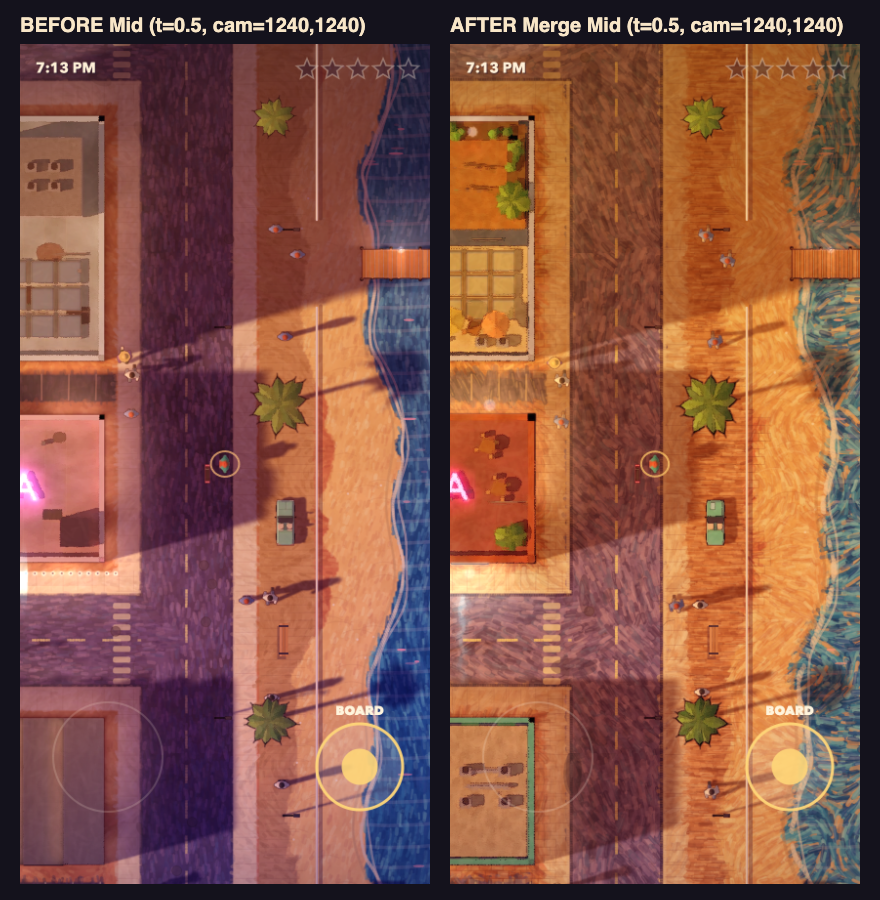
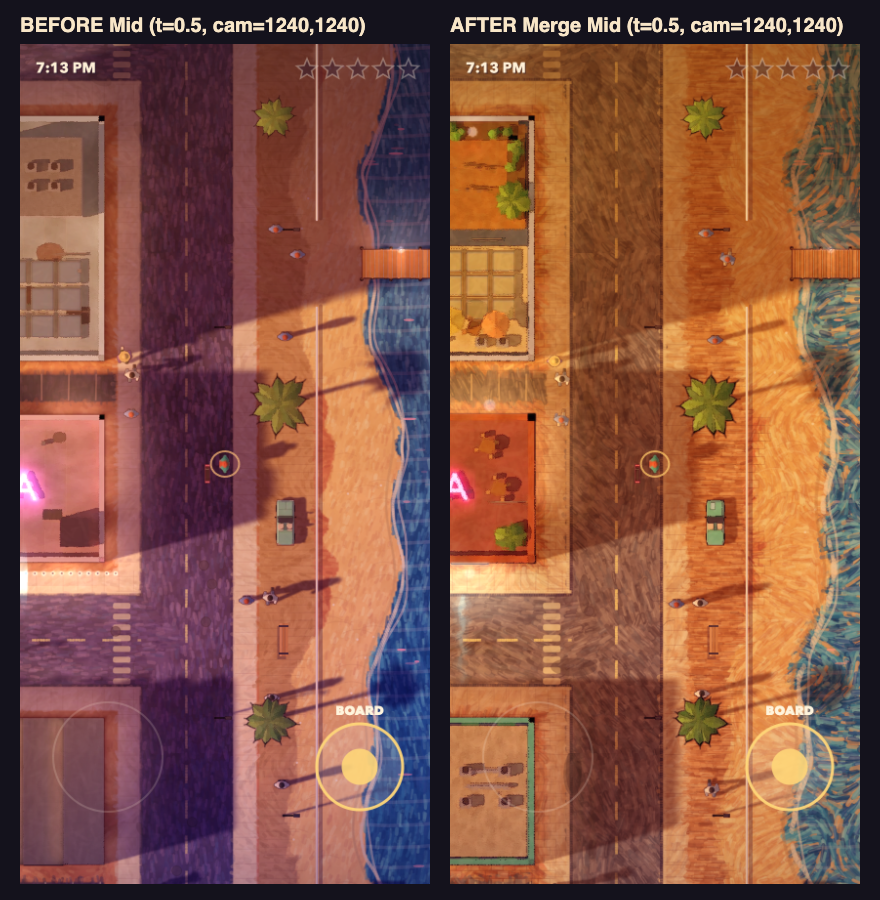
palm-city: remove golden-hour lavender road cast at intersections

diff --git a/games/palm-city/src/ground.js b/games/palm-city/src/ground.js
@@ -14,11 +14,11 @@ const CPX = CHUNK * PX_PER_UNIT; // 512
 
 // Daylight albedo per surface (the time-of-day grade is applied later, in the lighting pass).
 const PAL = {
-  road:      { base: [80, 72, 112],   var: [20, 18, 28], dabs: ['#605692', '#7466a8', '#4c447c', '#8e7cb8', '#5864a0', '#a286b6', '#423a70', '#b294c4'] },
+  road:      { base: [82, 76, 86],    var: [18, 16, 18], dabs: ['#666074', '#756e80', '#544f62', '#847888', '#5e627a', '#90828c', '#464156', '#988b96'] },
   sidewalk:  { base: [242, 214, 178], var: [16, 14, 12], dabs: ['#fae4be', '#dfbe9c', '#fff0d2', '#cfa88c', '#f4d3a6', '#e8b68c'] },
   paving:    { base: [212, 118, 76],  var: [26, 18, 16], dabs: ['#e68854', '#b85a42', '#f2a46a', '#9c4c3a', '#de7458', '#f8b976', '#8a3e30'] },
   plaza:     { base: [236, 190, 138], var: [18, 14, 14], dabs: ['#fad090', '#dea274', '#f2b880', '#ce8670', '#ffe0a4', '#e89668'] },
-  parking:   { base: [60, 56, 86],    var: [12, 10, 16], dabs: ['#4a466e', '#3c385a', '#625a88', '#302d4c', '#74689c'] },
+  parking:   { base: [62, 58, 66],    var: [12, 10, 12], dabs: ['#524e5a', '#44404c', '#66606c', '#36333e', '#746e78'] },
   grass:     { base: [64, 134, 58],   var: [28, 32, 22], dabs: ['#48a03c', '#8cc846', '#2e7c44', '#b2d44c', '#266644', '#d0dc58', '#56ac36', '#72ba44'] },
   promenade: { base: [208, 138, 92],  var: [20, 16, 14], dabs: ['#d48858', '#b86c48', '#e6a06c', '#9c583c', '#f0b47c', '#c87c4e'] },
   sand:      { base: [246, 198, 126], var: [16, 15, 14], dabs: ['#ffda92', '#ecb06a', '#fff0b4', '#dc9864', '#f8c67e', '#e49e60'] },
@@ -186,7 +186,7 @@ export class GroundPainter {
           g.quadraticCurveTo(px - sys * bend, py + cxs * bend, px + cxs, py + sys);
           g.stroke();
           if (pass === 1 && r4 > 0.74) {
-            g.strokeStyle = t === 'water' ? '#bfefff' : (t === 'road' ? '#a6a8de' : '#fff3ce');
+            g.strokeStyle = t === 'water' ? '#bfefff' : (t === 'road' ? '#cfc6d0' : '#fff3ce');
             g.globalAlpha = 0.26;
             g.lineWidth = Math.max(1.4, wid * 0.35);
             g.beginPath();
@@ -379,11 +379,11 @@ export class GroundPainter {
       if (r.d > hr - 3) continue;
       const isGutter = r.d > hr - 24;
       g.globalAlpha = isGutter ? 0.36 : 0.20;
-      g.fillStyle = isGutter ? '#22214c' : '#2f2d5e';
+      g.fillStyle = isGutter ? '#242338' : '#323046';
       g.beginPath(); g.ellipse(x, y, 16 + wr() * 18, 5 + wr() * 6, Math.atan2(r.dy, r.dx), 0, 7); g.fill();
       if (isGutter) {
         g.globalAlpha = 0.24;
-        g.fillStyle = '#8fa0de';
+        g.fillStyle = '#6e7494';
         g.beginPath(); g.ellipse(x - 2, y - 1, 9, 1.8, Math.atan2(r.dy, r.dx), 0, 7); g.fill();
       }
     }

diff --git a/games/palm-city/src/render.js b/games/palm-city/src/render.js
@@ -43,7 +43,7 @@ export function grade(t) {
     shadow: lerp(a.shadow, b.shadow, u),
     windows: smooth(0.26, 0.82, t),  // windows warm up first
     lamps: smooth(0.48, 0.92, t),    // street lamps after
-    neon: 0.10 + 0.90 * smooth(0.35, 0.85, t),
+    neon: 0.02 + 0.98 * smooth(0.32, 0.85, t),
     heads: smooth(0.45, 0.85, t),
   };
 }
